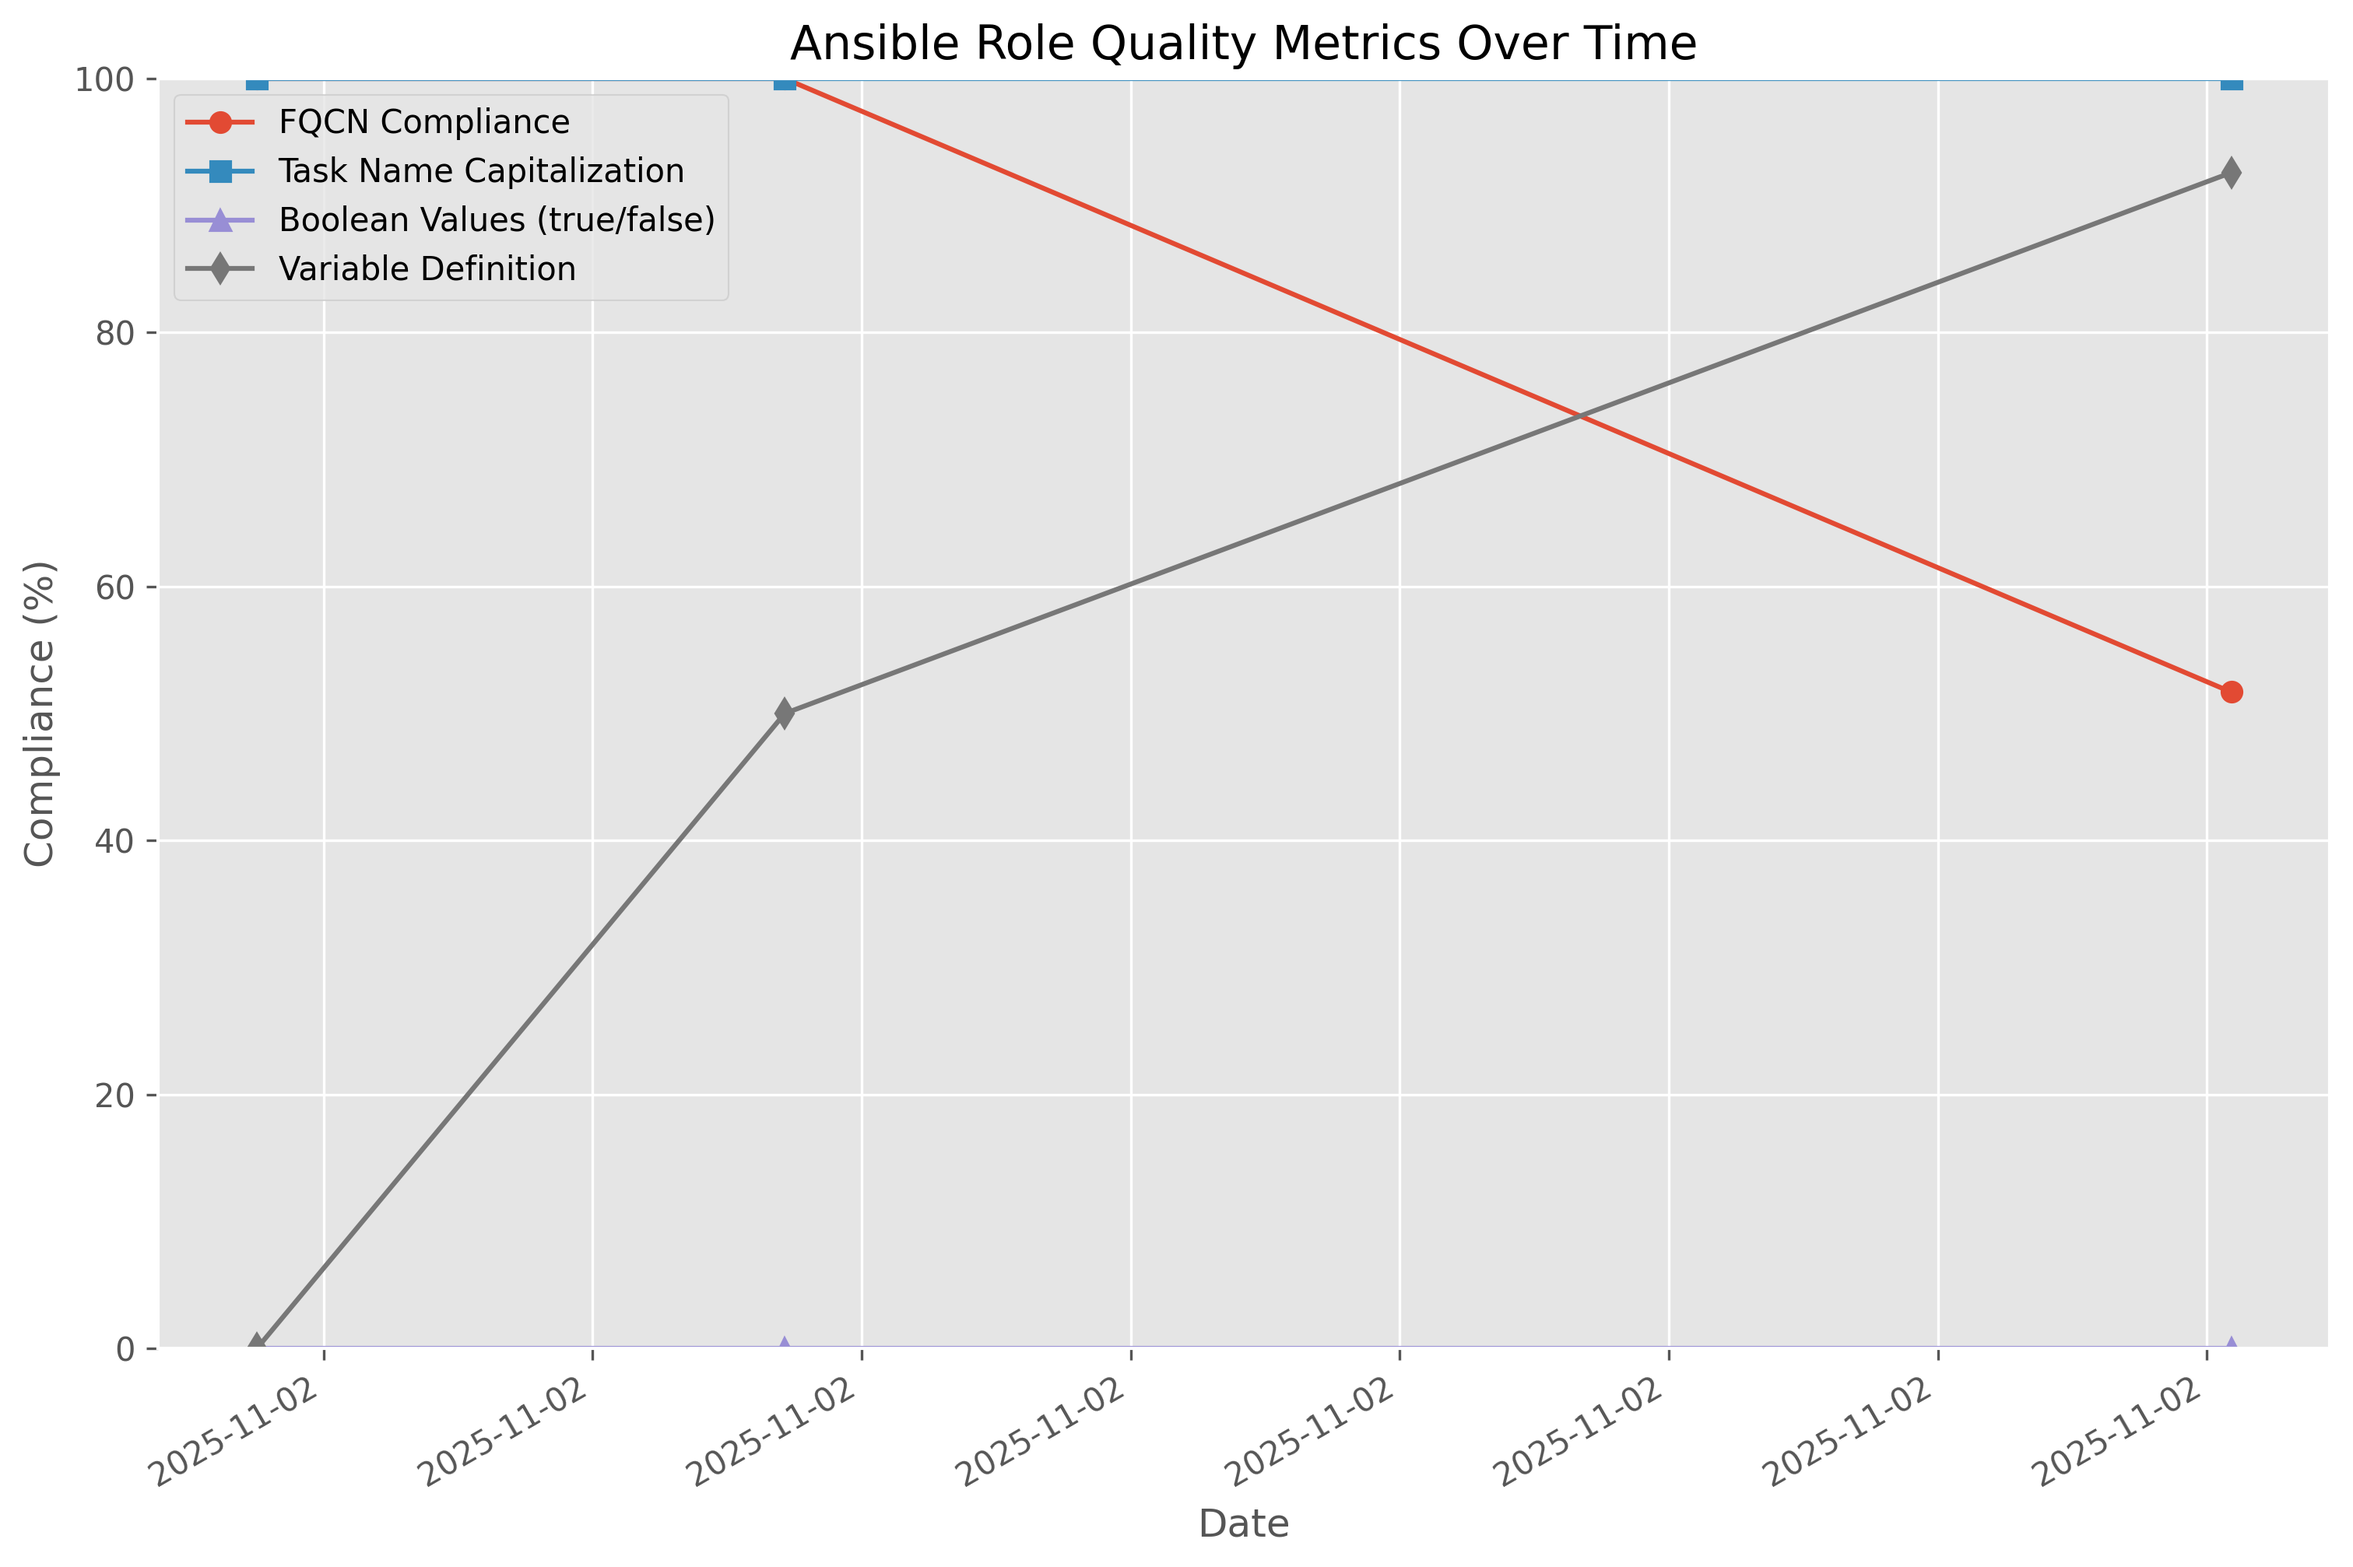
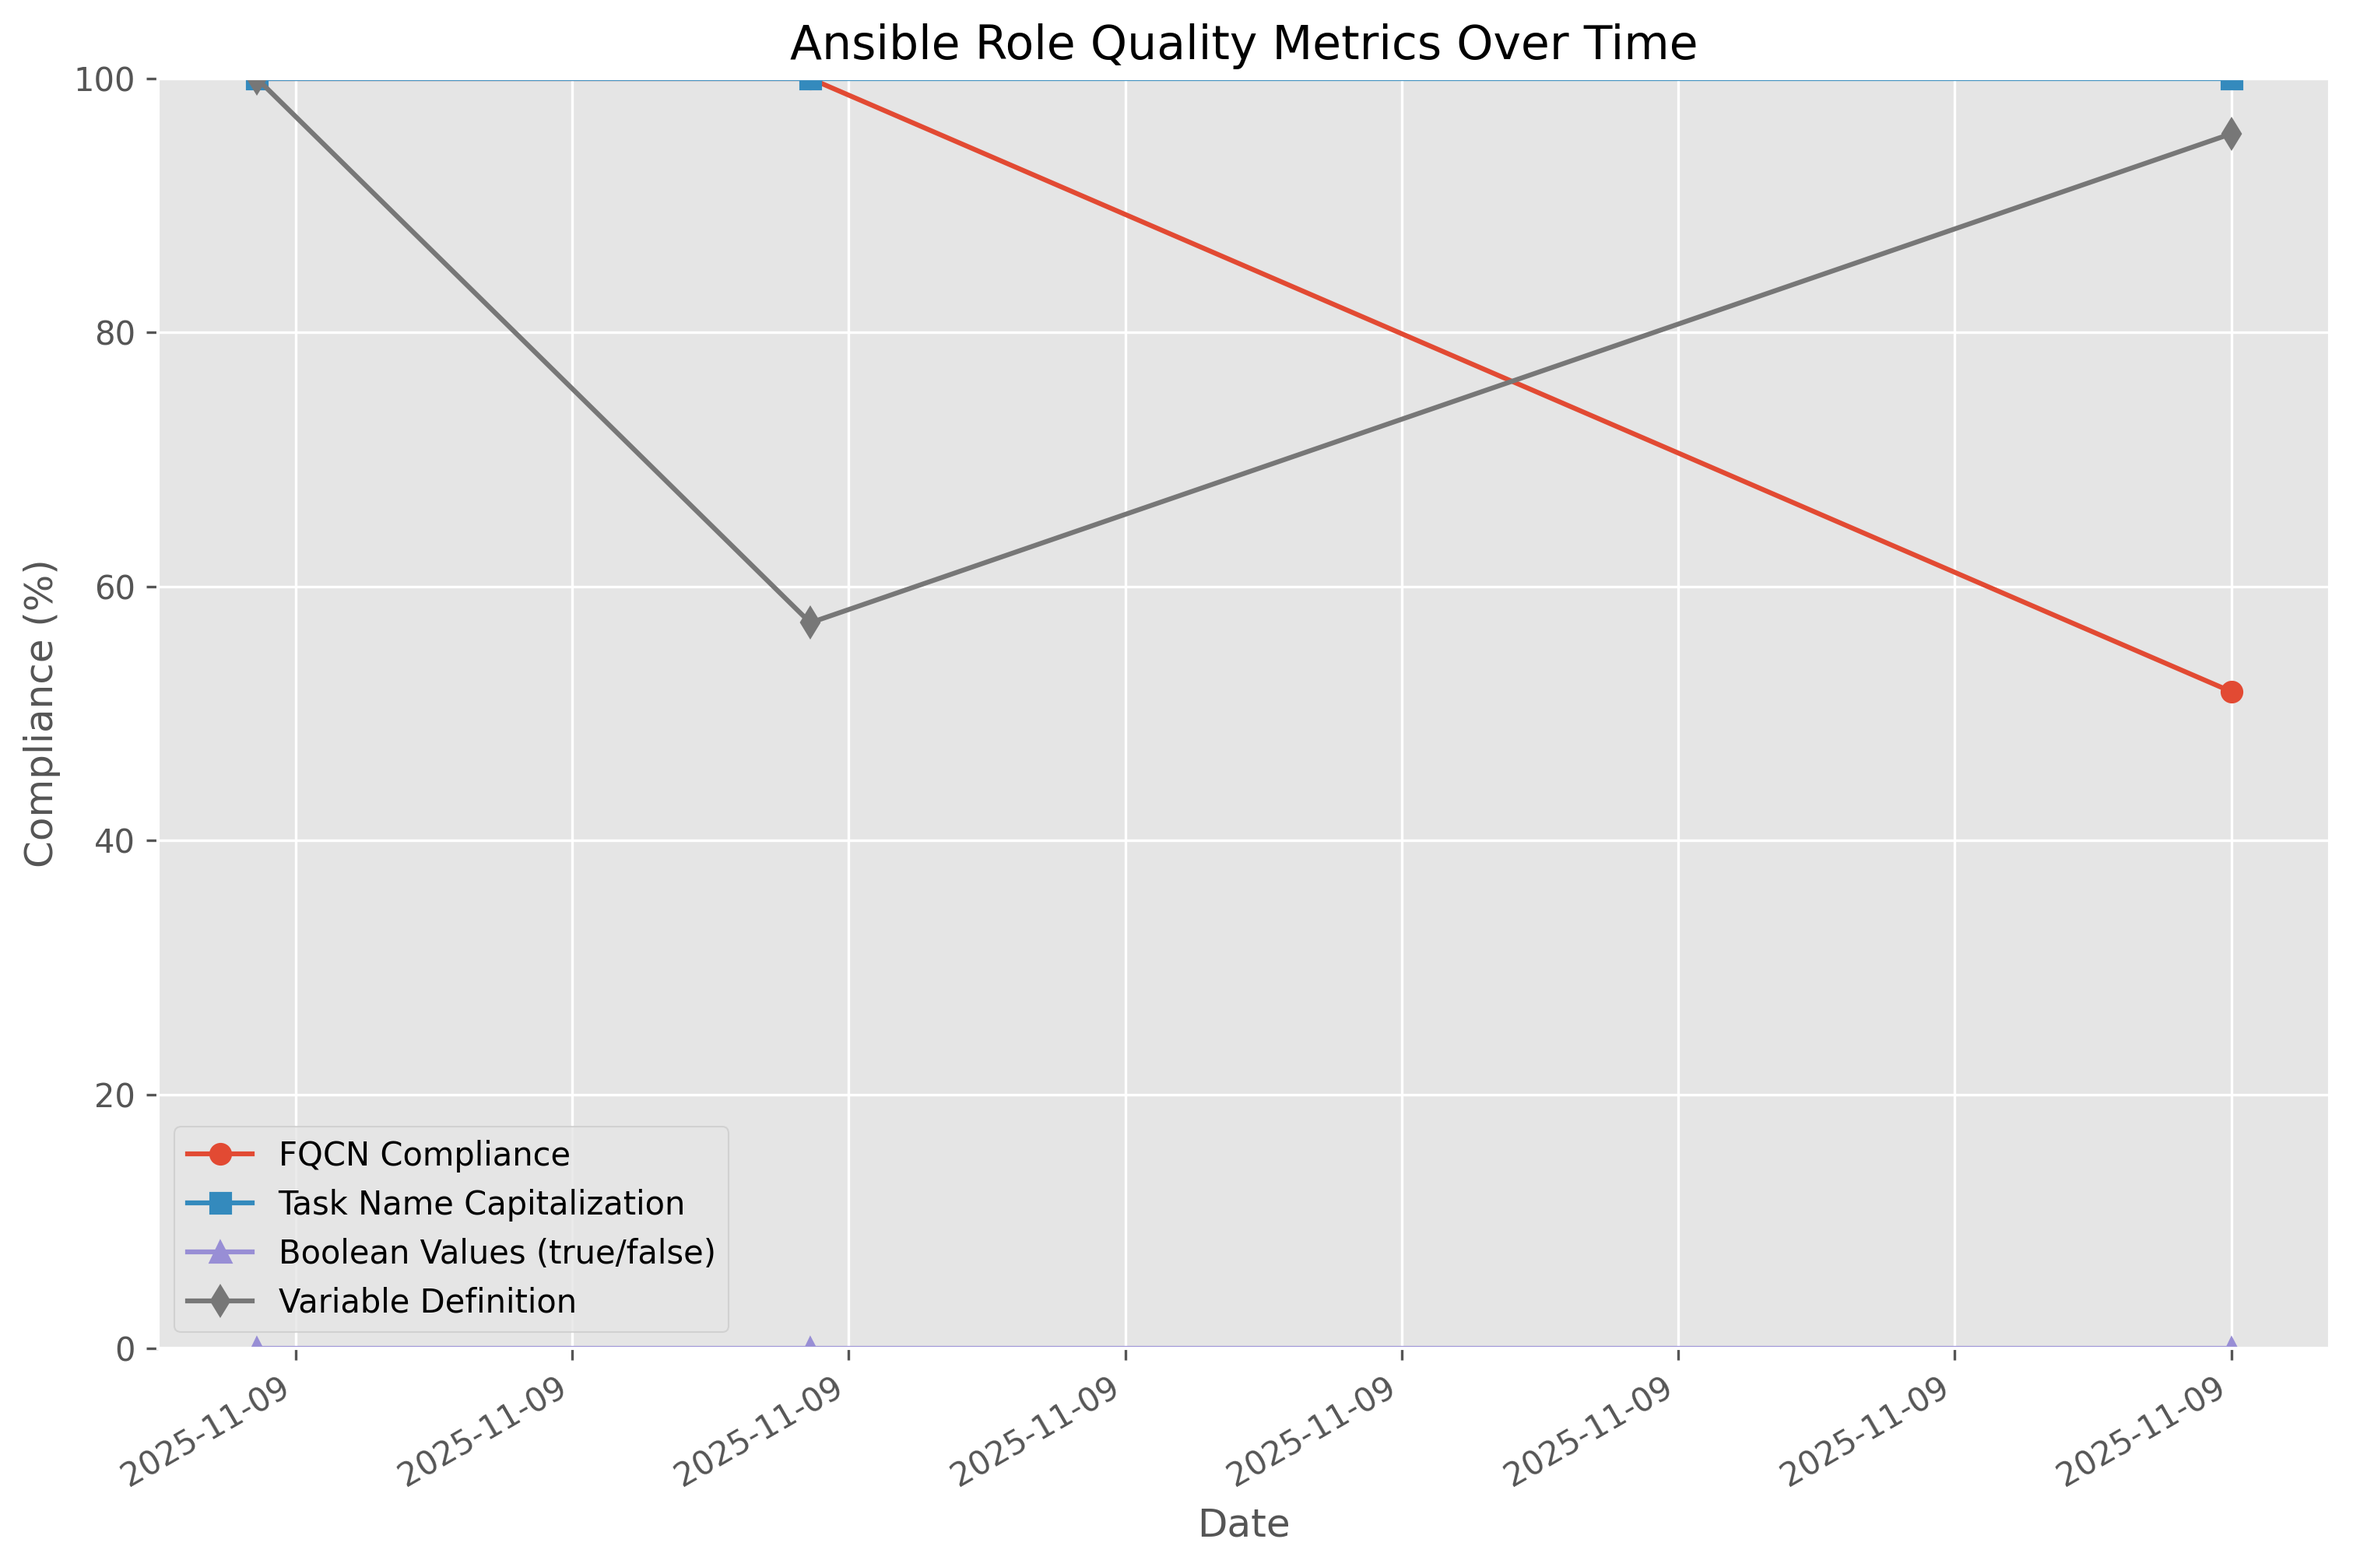
Update metrics (automated) 86381e575e3cb567ae7d61f2b827ec3665fe9a28

diff --git a/metrics/metrics_summary.md b/metrics/metrics_summary.md
@@ -1,15 +1,15 @@
 # Chef to Ansible Conversion Metrics
 
-Last updated: 2025-11-02 00:28:36
+Last updated: 2025-11-09 00:28:33
 
 ## Latest Compliance Metrics
 
 | Metric | Value |
 |--------|-------|
-| FQCN Compliance (%) | 51.69% |
+| FQCN Compliance (%) | 51.72% |
 | Task Name Capitalization (%) | 100.00% |
 | Boolean Values (true/false) (%) | 0.00% |
-| Variable Definition (%) | 92.59% |
+| Variable Definition (%) | 95.65% |
 
 ## Compliance Metrics Over Time
 
